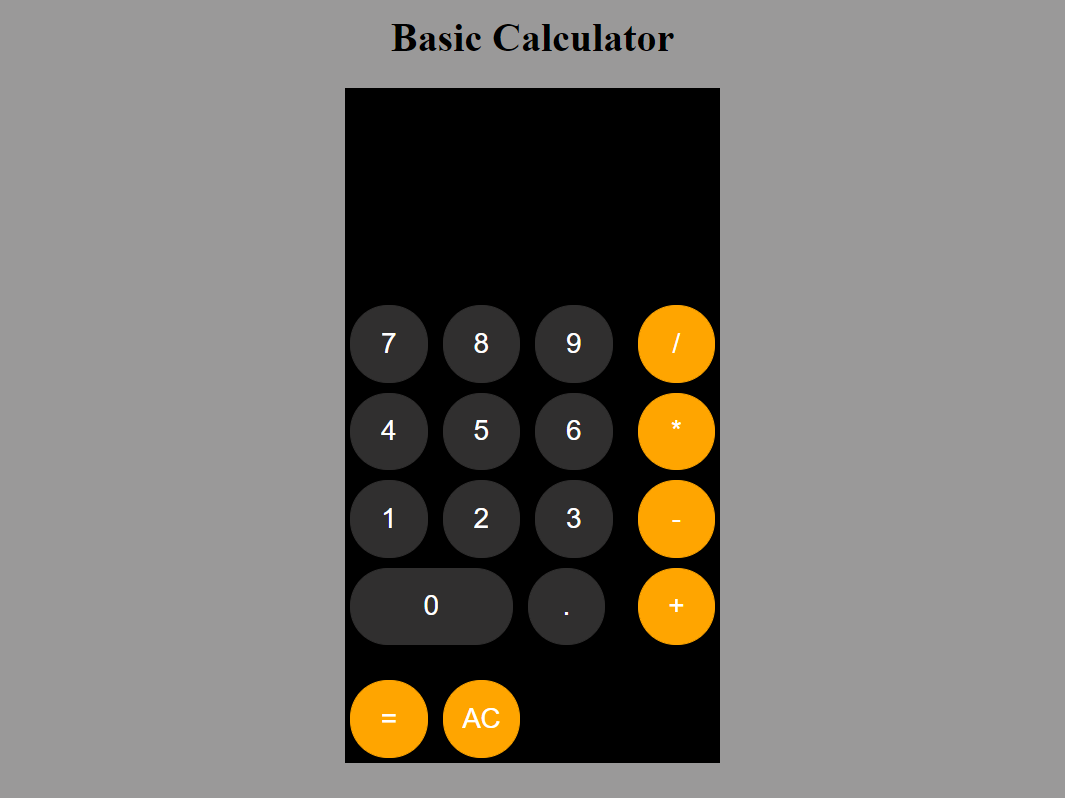
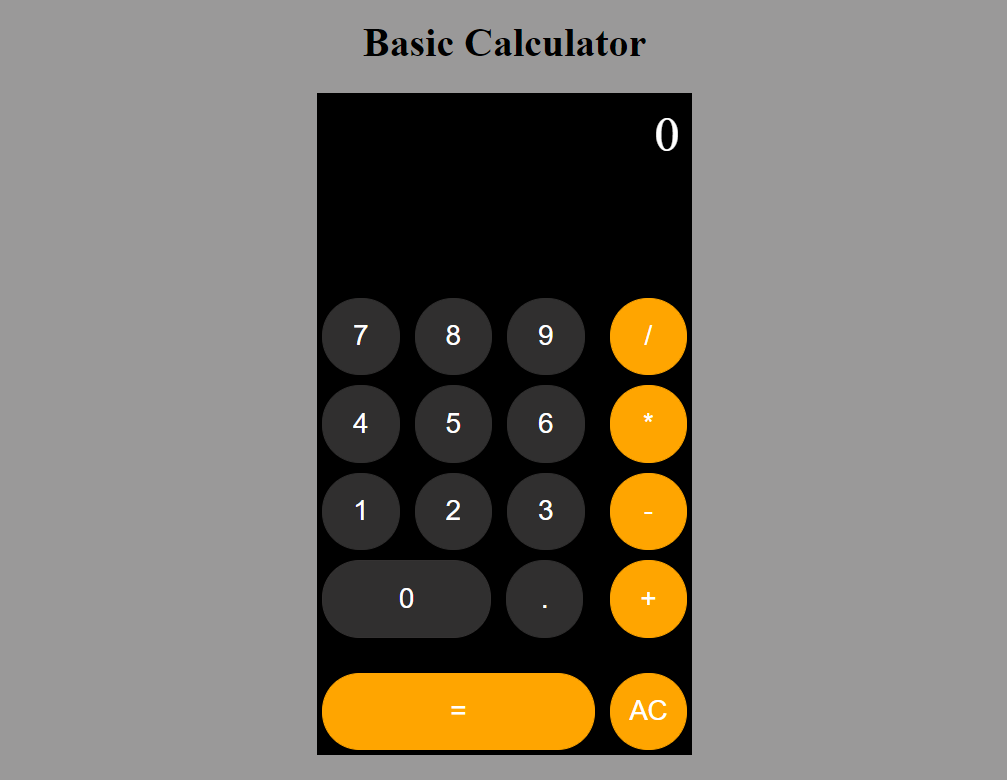
codes and readme updated

Changed region(s): [[0.3078, 0.0308, 0.708, 0.9846], [0.5233, 0.4, 0.6157, 0.4615]]

diff --git a/js/script.js b/js/script.js
@@ -1,83 +1,87 @@
-var leftPart = '';
-var rightPart = '';
-var selectedOperator = '';
+let currentVal=0;
+let result=0;
+let isClickSymbol=false;
+let isClickNumber=false;
+let selectSymbol=0;
 
+function ClickNumber(val){
 
-    var numbers = document.querySelectorAll(".num");
-        for (var i = 0; i < numbers.length; i++) {
-          numbers[i].addEventListener("click", function() {
-            if (this.value == '.') {
-              return;
-            }
-            document.getElementById("resultInner").innerHTML += this.value;
+    if(isClickSymbol && !isClickNumber){
+        $('#inputVal').text(0);
+    }
 
-            if (selectedOperator == '') {
-              leftPart += this.value;
-            } else if (selectedOperator != '') {
-              rightPart += this.value;
-            }
+    let inputVal=$('#inputVal').text();
 
-          }, false);
-        }
+    if(inputVal==0){
+        $('#inputVal').text(val);
+    }else{
+        $('#inputVal').text(inputVal+''+val);
+    }
 
+    isClickNumber=true;
+}
 
-        var operators = document.querySelectorAll(".operator");
-        for (var i = 0; i < operators.length; i++) {
-          operators[i].addEventListener("click", function() {
-            if (document.getElementById("resultInner").innerHTML === "") {
-              return;
-            }
-            document.getElementById("resultInner").innerHTML += this.value;
+function ClickSymbol(val){
+  let inputVal=$('#inputVal').text();
+  switch (val){
+    case 1:
+      selectSymbol = 1;
+      if(!isClickSymbol){
+        currentVal=inputVal;
+      }else if(isClickSymbol && isClickNumber){
+        result=parseFloat(currentVal)/parseFloat(inputVal);
+        currentVal=result;
+        $('#inputVal').text(result);
+    }
+    isClickSymbol=true;
+    isClickNumber=false;
+    break;
+    case 2:
+      selectSymbol=2;
+      if(!isClickSymbol){
+        currentVal=inputVal;
+      }else if(isClickSymbol && isClickNumber){
+        result=parseFloat(currentVal)*parseFloat(inputVal);
+        currentVal=result;
+        $('#inputVal').text(result);
+      }
+      isClickSymbol=true;
+      isClickNumber=false;
+      break;
+      case 3:
+        selectSymbol = 3;
+        if(!isClickSymbol){
+          currentVal=inputVal;
+      }else if(isClickSymbol && isClickNumber){
+          result=parseFloat(currentVal)-parseFloat(inputVal);
+          currentVal=result;
+          $('#inputVal').text(result);
+      }
+      isClickSymbol=true;
+      isClickNumber=false;
+      break;
+      case 4:
+        selectSymbol = 4;
+        if(!isClickSymbol){
+          currentVal=inputVal;
+      }else if(isClickSymbol && isClickNumber){
+          result=parseFloat(currentVal)+parseFloat(inputVal);
+          currentVal=result;
+          $('#inputVal').text(result);
+      }
+      isClickSymbol=true;
+      isClickNumber=false;
+      break;
+      case 5:
+        ClickSymbol(selectSymbol);
+      break;
+      case 6:
+        if(!inputVal.includes('.')){
+          inputVal=inputVal+'.';
+          $('#inputVal').text(inputVal);
+      }
+      break;
+        
 
-            selectedOperator = this.value;
-          }, false);
-        }
-
-
-
-        document.getElementById("nokta").addEventListener("click", function() {
-          if (document.getElementById("resultInner").innerHTML.indexOf('.') != -1) {
-            return;
-          }
-
-          if (document.getElementById("resultInner").innerHTML === "") {
-            output = document.getElementById("resultInner").innerHTML = '0.';
-          } else if (document.getElementById("resultInner").innerHTML === output) {
-            document.getElementById("resultInner").innerHTML = document.getElementById("result").innerHTML + '.';
-          }
-        }, false);
-
-
-        document.getElementById("equal").addEventListener("click", function() {
-
-          var calculationResult = 0;
-
-					
-          
-          if (selectedOperator == '+') {
-            calculationResult = parseFloat(leftPart) + parseFloat(rightPart);
-          } else if (selectedOperator == '-') {
-            calculationResult = parseFloat(leftPart) - parseFloat(rightPart);
-          } else if (selectedOperator == '*') {
-            calculationResult = parseFloat(leftPart) * parseFloat(rightPart);
-          } else if (selectedOperator == '/') {
-            calculationResult = parseFloat(leftPart) / parseFloat(rightPart);
-          }
-
-
-          document.getElementById("resultInner").innerHTML = calculationResult;
-
-          leftPart = '';
-          rightPart = '';
-          selectedOperator = '';
-        }, false);
-
-
-        document.getElementById("delete").addEventListener("click", function() {
-          document.getElementById("resultInner").innerHTML = '';
-
-          leftPart = '';
-          rightPart = '';
-          selectedOperator = '';
-        }, false);
-      
+  }
+}

diff --git a/index.html b/index.html
@@ -12,35 +12,35 @@
         <h1>Basic Calculator</h1>
         
         <div id="result">
-            <div id="resultInner"></div>
+            <p id="inputVal">0</p>
         </div>
 
         <div id="numberArea">
-            <button value="7" class="num">7</button>
-            <button value="8" class="num">8</button>
-            <button value="9" class="num">9</button>
-            <button value="4" class="num">4</button>
-            <button value="5" class="num">5</button>
-            <button value="6" class="num">6</button>
-            <button value="1" class="num">1</button>
-            <button value="2" class="num">2</button>
-            <button value="3" class="num">3</button>
-            <button value="0" class="num double-num">0</button>
-            <button id="nokta" class="num">.</button>
+            <button class="num" onClick="ClickNumber(7);">7</button>
+            <button class="num" onClick="ClickNumber(8);">8</button>
+            <button class="num" onClick="ClickNumber(9);">9</button>
+            <button class="num" onClick="ClickNumber(4);">4</button>
+            <button class="num" onClick="ClickNumber(5);">5</button>
+            <button class="num" onClick="ClickNumber(6);">6</button>
+            <button class="num" onClick="ClickNumber(1);">1</button>
+            <button class="num" onClick="ClickNumber(2);">2</button>
+            <button class="num" onClick="ClickNumber(3);">3</button>
+            <button class="double-num" onClick="ClickNumber(0);">0</button>
+            <button class="num" onclick="ClickSymbol(9);">.</button>
         </div>
 
         <div id="operators">
-            <button value="/" class="operator">/</button>
-            <button value="*" class="operator">*</button>
-            <button value="-" class="operator">-</button>
-            <button value="+" class="operator">+</button>
+            <button class="operator" onClick="ClickSymbol(1);">/</button>
+            <button class="operator" onClick="ClickSymbol(2);">*</button>
+            <button class="operator" onClick="ClickSymbol(3);">-</button>
+            <button class="operator" onClick="ClickSymbol(4);">+</button>
         </div> 
 
         <div class="clear"></div>
 
         <div id="resultOperators">
-            <button class="resultOperator-equal" id="equal">=</button>
-            <button class="resultOperator" id="delete">AC</button>
+            <button class="resultOperator" id="equal" onClick="ClickSymbol(5);">=</button>
+            <button class="resultOperator" id="delete" onClick="ClickSymbol(6);">AC</button>
         </div>
     </div>
 

diff --git a/css/style.css b/css/style.css
@@ -19,21 +19,23 @@ button{
 
 #result{
     background: black;
-    width: 100%;
-    height: 300;
+    width: 300px;
+    height: 160px;
     overflow: hidden;
     color: #fff;
 }
 
-#resultInner{
+#inputVal{
     display: block;
     margin: 10px;
     background: #000000;
-    width: 230px;
-    height: 150px;
+    width: 280px;
+    height: 80px;
     color: #000000;
-    font-size: 30px;
+    font-size: 40px;
     color: #fff;
+    text-align: right;
+    
 }
 
 
@@ -57,6 +59,12 @@ button{
 
 #numberArea .double-num{
     width: 135px;
+    height: 62px;
+    border-radius: 30px;
+    font-size: 22px;
+    color: #fff;
+    background: #302f2f;
+    margin: 4px;
 }
 
 #operators{
@@ -107,7 +115,7 @@ button{
 }
 
 #equal{
-    width: 62px;
+    width: 218px !important;
     height: 62px;
     border-radius: 30px;
     margin-right: 4px;
